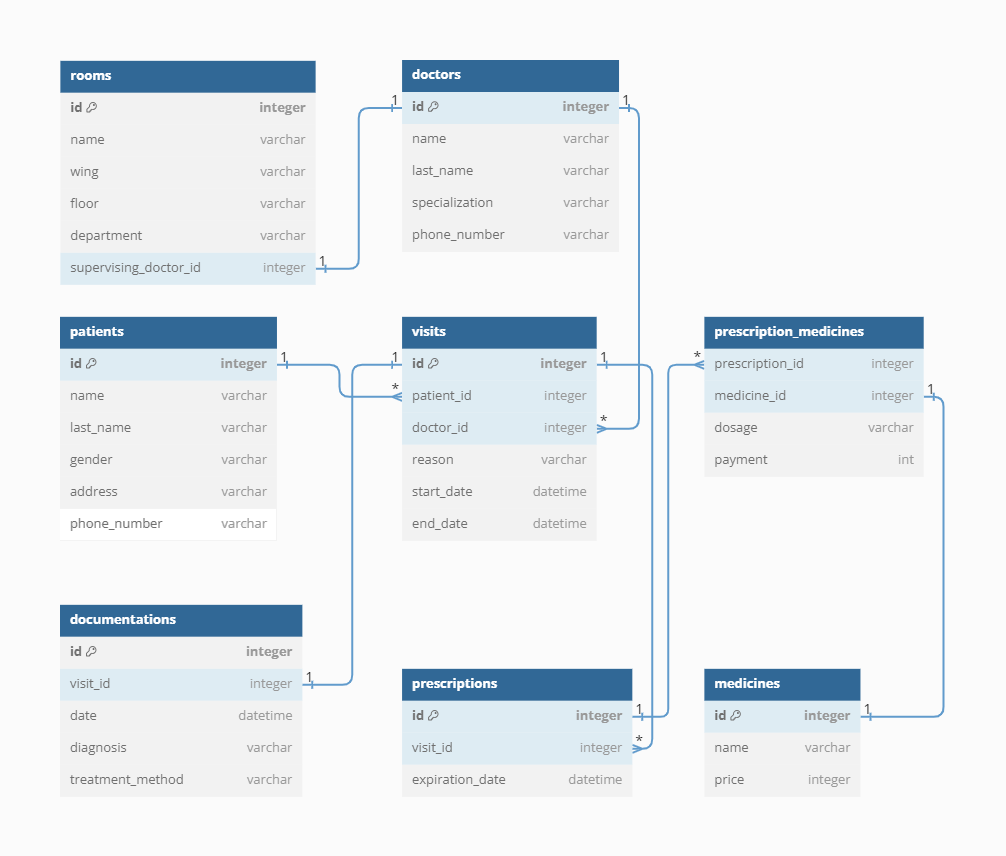
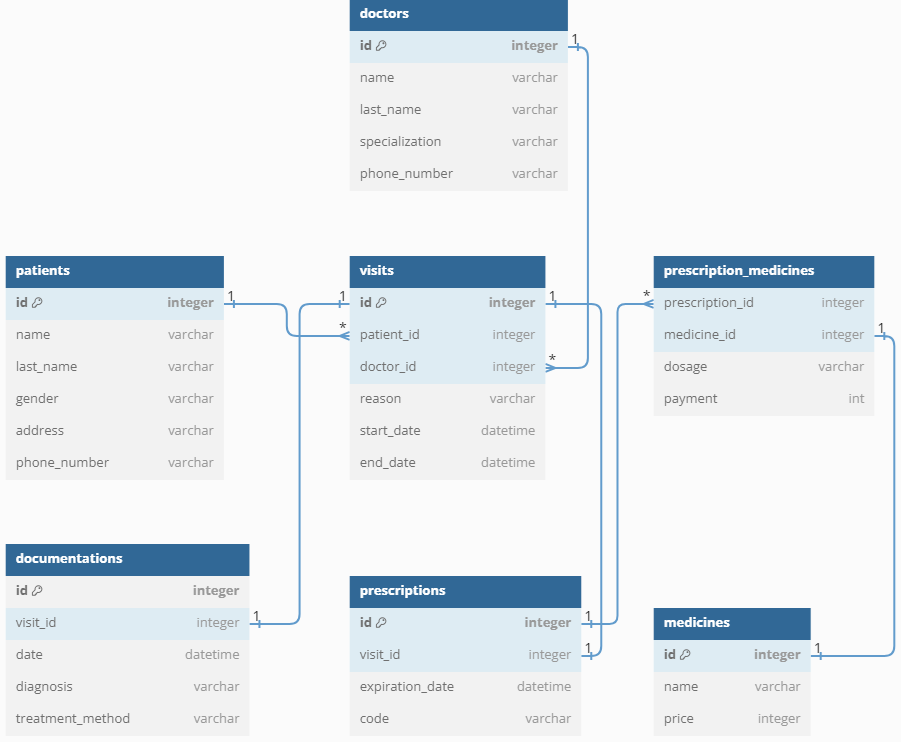
Aktualizacja README

diff --git a/README.md b/README.md
@@ -4,7 +4,7 @@
 
 Projekt bazy danych został stworzony z myślą o zarządzaniu informacjami medycznymi w placówce medycznej, zapewniając wsparcie w prowadzeniu dokumentacji dotyczącej personelu, lekarstw, metod leczenia oraz pacjentów.
 
-Dzięki naszej aplikacji personel medyczny może zarządzać danymi pacjentów, śledzić historię chorób i leczenia, oraz szybko dostępować do informacji o lekarzach, lekach i gabinetach.
+Dzięki naszej aplikacji personel medyczny może zarządzać danymi pacjentów, śledzić historię chorób i leczenia, oraz szybko dostępować do informacji o lekarzach i lekach.
 
 ## Funkcjonalności projektu
 
@@ -17,8 +17,8 @@ Niektóre z dostępnych funkcji:
 - *rejestrowanie pacjentów*,
 - *przyjmowanie wizyt*,
 - *tworzenie dokumentacji medycznej*,
-- *przepisywanie leków oraz zarządzanie dostępnymi lekarzami/gabinetami*,
-- *analiza danych*, np. popularność przepisywanych leków, lekarze z największą liczbą wizyt, średni czas trwania wizyty, statystyki dotyczące wieku pacjentów, popularność specjalizacji lekarskich, częstotliwość wizyt w zależności od dnia tygodnia/czasu, trendy w ilości wizyt w czasie, średnia liczba wizyt w zależności od wieku pacjentów, rozkład płci pacjentów w różnych grupach wiekowych itp.,
+- *przepisywanie leków*,
+- *analiza danych*, np. popularność przepisywanych leków, lekarze z największą liczbą wizyt, średni czas trwania wizyty, statystyki dotyczące wieku pacjentów, popularność specjalizacji lekarskich, średnia liczba wizyt w zależności od wieku pacjentów, rozkład płci pacjentów w różnych grupach wiekowych itp.,
 - *historia pacjentów*.
 
 Dzięki temu systemowi personel medyczny może śledzić pacjentów i zapewnić im odpowiednią opiekę medyczną.
